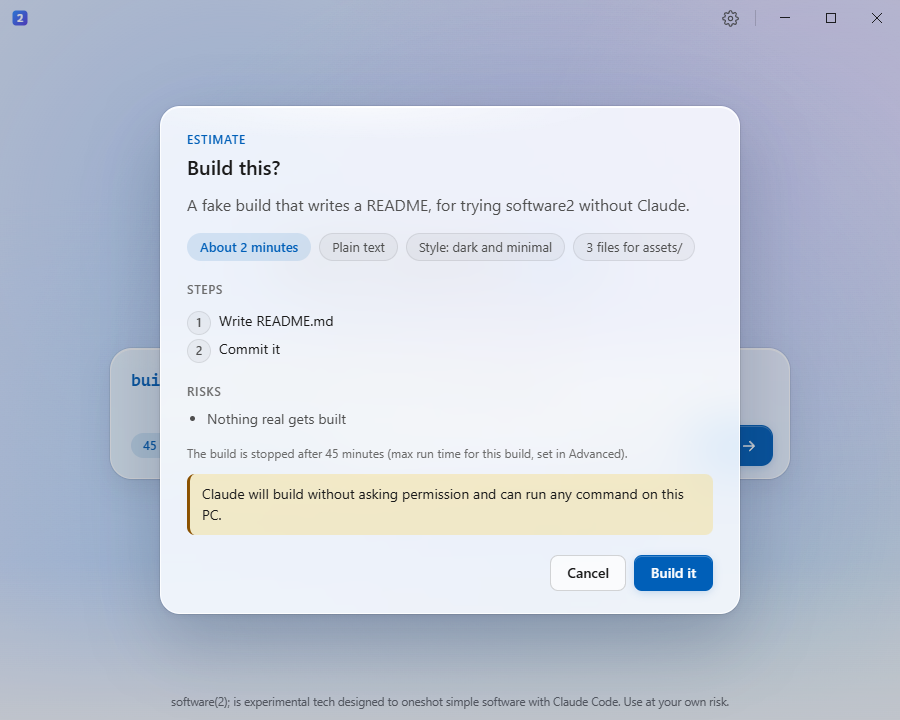
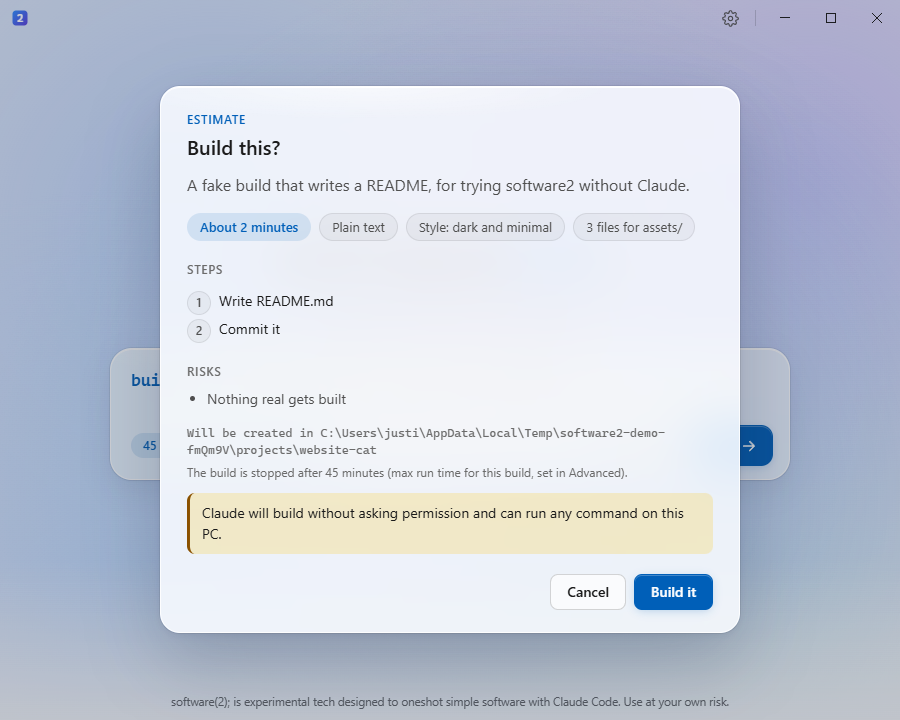
README, screenshots and project note for the automatic project folder

Changed region(s): [[0.1556, 0.1222, 0.84, 0.8861]]

diff --git a/README.md b/README.md
@@ -3,8 +3,9 @@
 `software(2);`
 
 A proof-of-concept Windows app with one text box that reads "build me [ ... ]". You type the software you want,
-the app asks Claude Code for a quick time estimate, you confirm and pick a new
-folder, and Claude Code builds it in one go, headless, with local git only.
+the app asks Claude Code for a quick time estimate and a short name, you confirm, and
+Claude Code builds it in one go in a new folder named after it, headless, with local
+git only.
 
 Behind the scenes it just pipes your request, plus some instructions, into the
 `claude` CLI. Windows only for now.
@@ -63,8 +64,9 @@ The shortcut runs `scripts\launch.vbs` through `wscript.exe`, which runs
 
    When anything is set, a chip in the box says so ("45 min · dark and minimal ·
    3 files"), with the panel open or closed. **Build something else** clears it.
-3. Read the estimate and press **Build it**, then pick or create a new, empty folder.
-   Until the folder is picked the box stays, so you can cancel and edit.
+3. Read the estimate and press **Build it**. Nothing to pick: the card says where the
+   project will go ("Will be created in C:\Users\you\software2-projects\pomodoro-timer"),
+   a new folder inside the projects folder from Settings, named by the estimate.
 4. Then the box slides away for the whole build. What is left is one quiet line with
    what is being built ("Building: a pomodoro timer") and the status line: what Claude
    is doing right now, the time against the estimate and a thin progress bar. **Stop**
@@ -72,7 +74,7 @@ The shortcut runs `scripts\launch.vbs` through `wscript.exe`, which runs
 5. When it ends you get Claude's summary, the git commits it made, **Open folder**,
    **Open README**, **Open full log** (to see what went wrong in a failed run) and
    **Build something else**, which brings the box back, empty, with Advanced reset.
-   There is no history of past builds: their folders stay where you put them.
+   There is no history of past builds: their folders stay in the projects folder.
 6. A build that is done also gets **How to run it** at the top of the card (see "Run
    what was built" below): a few numbered steps, the folder, the command or file with
    **Copy** buttons, and **Run now**.
@@ -164,14 +166,24 @@ to work around it. Some builds will not finish that way.
    in a temporary empty folder, so Claude can only answer, not act. The prompt has the
    request, the design style and the files' names, types and sizes (never the files).
    It replies with JSON:
-   minutes, summary, stack, steps and risks. Code fences and prose around the JSON are
-   fine; if no estimate can be read, the raw reply is shown with Retry.
+   minutes, name, summary, stack, steps and risks. Code fences and prose around the JSON
+   are fine; if no estimate can be read, the raw reply is shown with Retry.
+   `name` is a short kebab-case name for the project's folder ("pixel-art-editor"). If it
+   is missing or unusable, one is made from the request: without "build me", up to the
+   first "with", "that", "for", comma and so on, filler words left out, at most four
+   words ("Build me a pomodoro timer with sounds" -> `pomodoro-timer`). Either way it is
+   made safe for Windows: lowercase a-z, 0-9 and hyphens, no hyphen at either end, at
+   most 40 characters, never a reserved name (con, prn, aux, nul, com1-9, lpt1-9), and
+   `project` if nothing is left.
 2. **Confirm**: a card with the summary, stack, steps, "About N minutes", the design
    style and number of files if set, the time cap for this build and, if the
-   permission-skip setting is on, a warning. "Build it" or "Cancel".
-3. **Folder**: a folder dialog opens at the default folder. Pick or create a new, empty
-   folder; a non-empty one is refused. It gets `git init` and an empty first commit.
-   Files from Advanced are then copied into `assets` and committed.
+   permission-skip setting is on, a warning, and "Will be created in ..." with the
+   project's folder. "Build it" or "Cancel".
+3. **Folder**: "Build it" makes the projects folder from Settings if it is missing, then
+   a new folder in it with the project's name. A name that is taken (by a folder or a
+   file) gets `-2`, `-3` and so on: an existing folder is never reused or written into,
+   even an empty one. The new folder gets `git init` and an empty first commit. Files
+   from Advanced are then copied into `assets` and committed.
 4. **Build** (time cap from Advanced, else from Settings): runs
    `claude -p --output-format stream-json --verbose` in the project folder, plus either
    `--dangerously-skip-permissions` or
@@ -222,7 +234,7 @@ stand-in for the CLI, never the real one.
 
 Off by default. `SOFTWARE2_DEMO=1` runs the window against `test/fake-claude.mjs`, with
 a throwaway data folder in `%TEMP%\software2-demo-*` (your real settings are not
-touched) and no folder dialog. `SOFTWARE2_SHOTS=<folder>` also walks through every
+touched) and its projects folder in there too. `SOFTWARE2_SHOTS=<folder>` also walks through every
 state (empty, the Advanced panel with three made-up sample files, open and closed,
 estimating, confirm, building, done with a page to open, done with a command and its Run
 now sheet, done with only a README, Settings, a failed build, the smallest window,
@@ -245,7 +257,8 @@ Open **Settings** with the gear icon. They are saved as JSON in the app's own fo
   use Detect or Browse to change it. A `.js`/`.mjs` script also works (it is run
   with Node), so you can point it at `test/fake-claude.mjs` to try the app without
   Claude.
-- **Default folder for new projects.**
+- **Projects folder** (default `%USERPROFILE%\software2-projects`): every new project is
+  created here automatically, in a new folder named after it. It is made if missing.
 - **Build time cap** in minutes (default 30). The build is killed when it runs out.
 - **Let Claude build without asking permission** (`--dangerously-skip-permissions`),
   on by default. See above for what that means and what happens when it is off.
@@ -256,10 +269,11 @@ Open **Settings** with the gear icon. They are saved as JSON in the app's own fo
 src/main/main.ts        Electron main process: window, IPC, settings, Go/Stop
 src/main/runner.ts      runClaude(): spawn the CLI, stream lines, Stop, time cap
 src/main/settings.ts    load/save settings.json, find claude on PATH
-src/main/flow.ts        Go: estimate -> confirm -> folder -> build (Electron bits passed in)
+src/main/flow.ts        Go: estimate -> confirm -> new folder -> build (Electron bits passed in)
 src/main/advanced.ts    Advanced: run time, design style, files (checks, copy into assets/)
 src/main/estimate.ts    the estimate run and parsing its JSON reply
-src/main/project.ts     the empty-folder check and git init
+src/main/naming.ts      the project's folder name: from the estimate or the request, made safe
+src/main/project.ts     making the new project folder (-2, -3 when taken) and git init
 src/main/build.ts       runBuild(): the build run, its flags and its prompt
 src/main/howtorun.ts    RUN.json, the README fallback, and Run now
 src/main/stream.ts      stream-json lines -> readable log lines and the status-line sentence

diff --git a/CLAUDE.md b/CLAUDE.md
@@ -36,3 +36,4 @@ Electron + TypeScript, plain HTML/CSS renderer, Windows only. See README.md for 
 - The no-terminal way to open the app is `scripts/launch.vbs` (desktop shortcut via `npm run shortcut`) -> `scripts/launch.mjs` (`npm run launch`): build, then spawn `node_modules/electron/dist/electron.exe` detached, dropping `ELECTRON_RUN_AS_NODE`. Exit codes 1/2 pick launch.vbs's message; the log is `%TEMP%\software2-launch.log`. `.vbs` files are kept CRLF by `.gitattributes`.
 - "How to run it" is `src/main/howtorun.ts`: `readHowToRun()` (RUN.json, else the README's "How to run" section) goes on a done `BuildOutcome.howToRun`; Run now (`RunNow`) only runs that spec, opening a `.cmd` from `userData\run` with `shell.openPath` (a visible console), after a first-time confirm kept in memory. Tests stub the launchers; demo mode never runs a command. The fake's `FAKE_CLAUDE_RUN` picks what the build leaves (static/command/broken/readme).
 - The "build me" placeholder examples are `EXAMPLES` in `src/renderer/examples.ts` (a plain script before renderer.ts, shuffled by `exampleCycler()`); `test/examples.test.mjs` holds them to 90-110 entries, unique, "a "/"an " first, at most 60 chars.
+- Nobody picks a project folder: `projectName()` (`src/main/naming.ts`: the estimate's `name`, else one from the request, made Windows-safe) and `createProjectFolder()` in project.ts (plain `mkdirSync` per try, `-2`, `-3` when taken, so an existing folder is never reused). The confirm card's path is `plannedFolder()`, only a preview. `FAKE_CLAUDE_NAME` sets the fake estimate's name (none by default, so the request fallback runs). The `dialog:pickFolder` IPC is only Settings' Browse.
